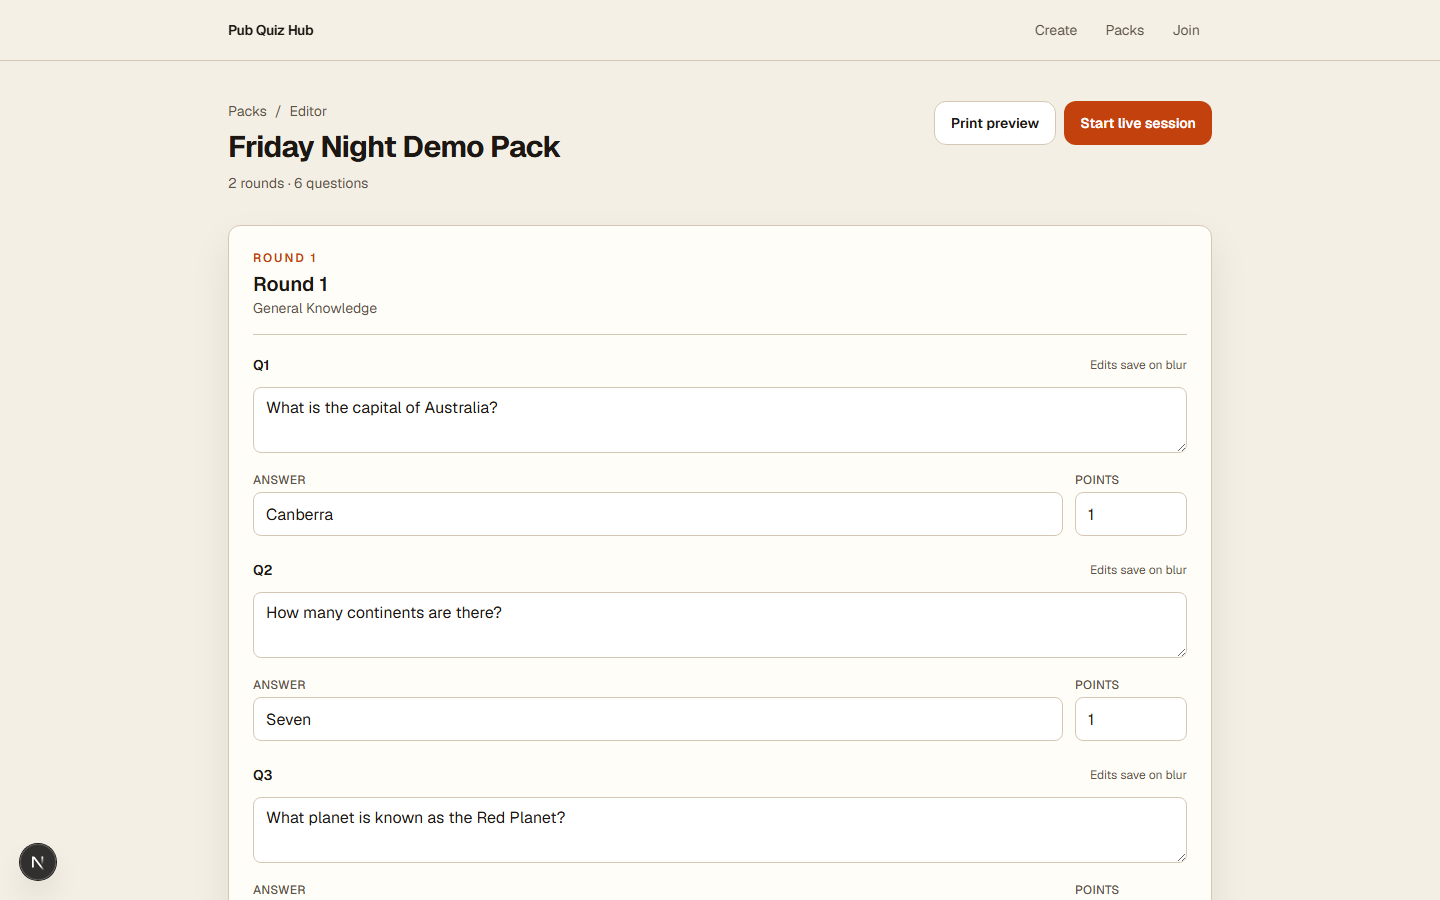
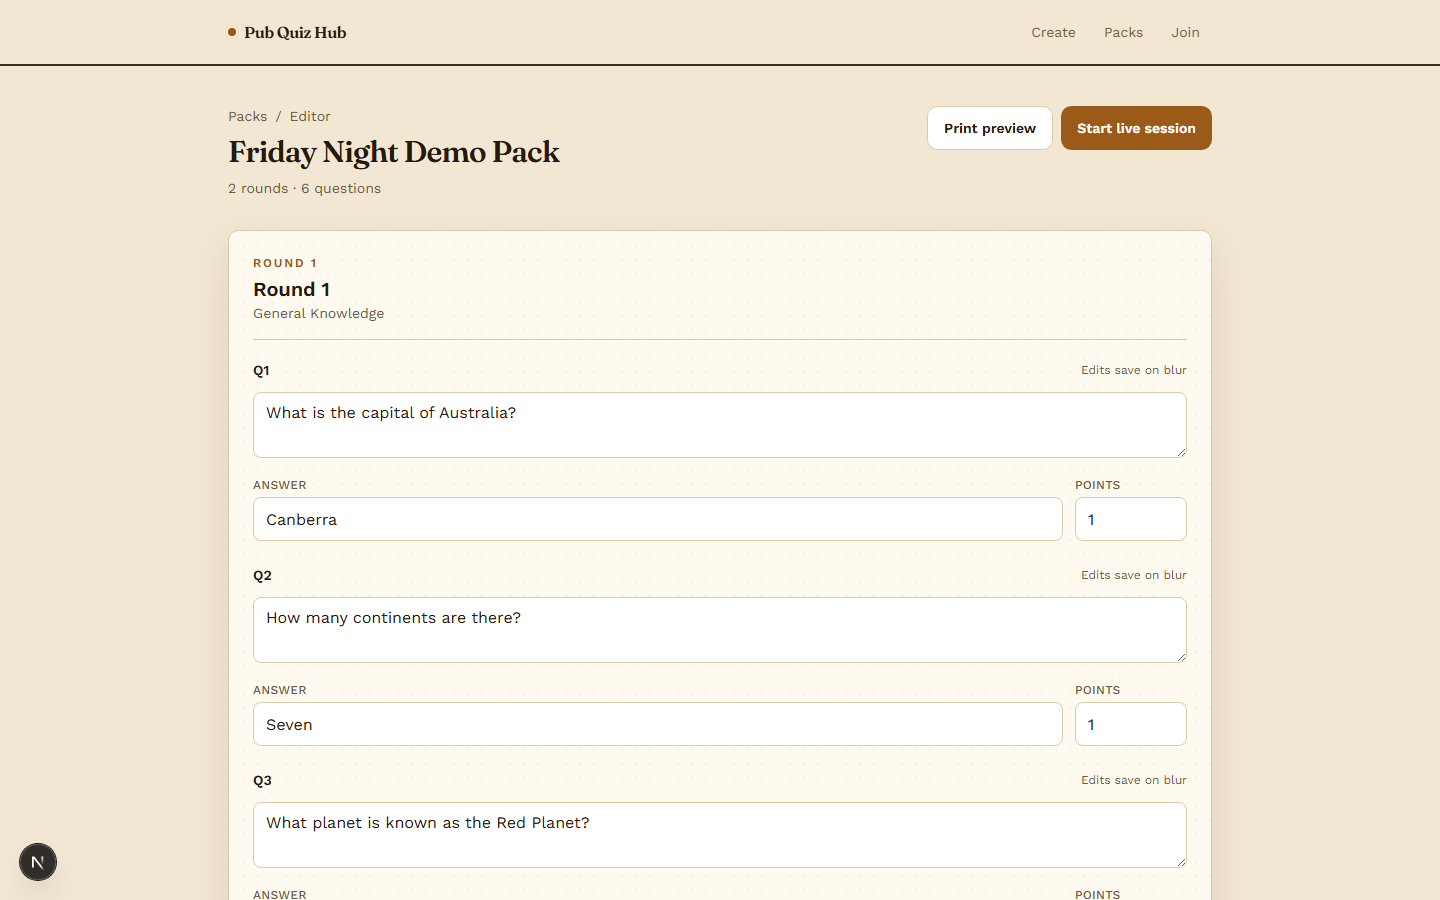
Give the app a distinctive visual identity: "Chalk & Brass"
The previous palette (warm cream + terracotta accent for light screens,
near-black + gold for the live "stage" screens) sat squarely in two of
the most common AI-generated-UI defaults. Replaced both with a design
mined from the actual subject — a pub quiz night has two real modes,
the prep desk and the live room — rather than generic SaaS warmth:

- Paper mode (editor/wizard/marketing): richer parchment background,
  deep umber ink, and a burnt-brass accent (ale/brass-fixture toned)
  instead of flat construction-orange.
- Chalkboard mode (host desk/team portal): an actual chalkboard
  green-black instead of a neutral near-black, with a warm gold-chalk
  accent.
- Type: Fraunces (a warm, ink-trap variable serif) for display
  headlines, replacing generic Geist Sans everywhere; Work Sans for
  body/UI; IBM Plex Mono for join codes and scores.
- Signature: a brass double-rule under key headings, a faint paper-grain
  texture on cards, and a matching chalk-dust texture + vignette on dark
  surfaces.

Implementation stays surgical: every existing Tailwind class
(bg-amber, text-stage-fg, bg-gold, paper-sheet, font-serif, font-mono...)
keeps its name — only the token values in globals.css and the fonts
loaded in layout.tsx changed, so the whole app (including pages I didn't
touch, like the print preview) picks up the new identity automatically.
Layered on top: font-serif on the handful of headings that read best as
display type, and a small polish pass on the header/home hero.
[…]

diff --git a/src/app/globals.css b/src/app/globals.css
@@ -1,16 +1,27 @@
 @import "tailwindcss";
 
+/*
+  "Chalk & Brass" — two linked surfaces that map to how a pub quiz actually
+  runs: the prep desk (paper, ink, brass) and the live room (chalkboard,
+  gold chalk). Same token names the rest of the app already reaches for
+  (bg-amber, text-stage-fg, bg-gold, …) — only the values and a couple of
+  textures changed here, so this file is the single place that carries the
+  whole visual identity.
+*/
 :root {
-  --background: #f4efe4;
-  --foreground: #1c1712;
-  --muted: #5c5348;
-  --line: #d4c8b4;
-  --amber: #c2410c;
-  --amber-hover: #9a3412;
-  --stage: #12100d;
-  --stage-fg: #f6f0e6;
-  --stage-muted: #c4b8a5;
-  --gold: #e8b84a;
+  --background: #f2e7d3;
+  --foreground: #26190e;
+  --muted: #6e5a42;
+  --line: #dcc9a6;
+  --amber: #9c5a18;
+  --amber-hover: #713f0e;
+  --stage: #161f1a;
+  --stage-fg: #f1e9d8;
+  --stage-muted: #9daf9f;
+  --gold: #e2aa3e;
+
+  --radius-xl: 0.65rem;
+  --radius-2xl: 0.9rem;
 }
 
 @theme inline {
@@ -24,21 +35,63 @@
   --color-stage-fg: var(--stage-fg);
   --color-stage-muted: var(--stage-muted);
   --color-gold: var(--gold);
-  --font-sans: var(--font-geist-sans);
-  --font-mono: var(--font-geist-mono);
+
+  --font-sans: var(--font-body), Arial, Helvetica, sans-serif;
+  --font-serif: var(--font-display), Georgia, serif;
+  --font-mono: var(--font-mono-plex), ui-monospace, monospace;
 }
 
 body {
   background: var(--background);
   color: var(--foreground);
-  font-family: var(--font-sans), Arial, Helvetica, sans-serif;
+  font-family: var(--font-sans);
 }
 
+/* A short brass double-rule — the one signature mark repeated wherever a
+   heading needs real weight: a thick stroke over a thin one, like the rule
+   under a menu-board header. Deliberately small and quiet everywhere else. */
+.rule-brass {
+  position: relative;
+  display: inline-block;
+  padding-bottom: 0.5rem;
+}
+.rule-brass::after {
+  content: "";
+  position: absolute;
+  left: 0;
+  bottom: 0;
+  width: 3.25rem;
+  height: 5px;
+  background: var(--amber);
+  border-bottom: 2px solid var(--foreground);
+  opacity: 0.9;
+}
+.rule-brass--dark::after {
+  background: var(--gold);
+  border-bottom-color: var(--stage-fg);
+  opacity: 0.85;
+}
+
+/* Paper card: warm white with a faint fiber grain, not a flat swatch. */
 .paper-sheet {
-  background: #fffdf8;
+  background:
+    radial-gradient(circle at 1px 1px, rgba(38, 25, 14, 0.05) 1px, transparent 0) 0 0/14px 14px,
+    #fffaf0;
   box-shadow:
-    0 1px 0 rgba(28, 23, 18, 0.06),
-    0 18px 40px rgba(28, 23, 18, 0.08);
+    0 1px 0 rgba(38, 25, 14, 0.07),
+    0 18px 40px rgba(38, 25, 14, 0.1);
+}
+
+/* Chalkboard surfaces: every existing `bg-stage` usage picks this up for
+   free (same Tailwind class, extended here) — a faint chalk-dust grain plus
+   a soft top vignette instead of a flat near-black. */
+.bg-stage {
+  background-color: var(--stage);
+  background-image:
+    radial-gradient(circle at 1px 1px, rgba(241, 233, 216, 0.05) 1px, transparent 0),
+    radial-gradient(ellipse 90% 60% at 50% -10%, rgba(226, 170, 62, 0.08), transparent 60%);
+  background-size: 16px 16px, 100% 100%;
+  background-repeat: repeat, no-repeat;
 }
 
 @media print {
@@ -51,6 +104,7 @@ body {
   }
 
   .paper-sheet {
+    background: white;
     box-shadow: none;
     width: 100%;
     max-width: none;

diff --git a/src/app/play/TeamPortal.tsx b/src/app/play/TeamPortal.tsx
@@ -136,7 +136,7 @@ export function TeamPortal() {
       <div className="flex min-h-dvh flex-col bg-stage px-5 py-8 text-stage-fg">
         <div className="mx-auto flex w-full max-w-md flex-1 flex-col justify-center">
           <p className="text-xs font-semibold uppercase tracking-[0.2em] text-gold">Team portal</p>
-          <h1 className="mt-3 text-3xl font-bold tracking-tight">Join tonight’s quiz</h1>
+          <h1 className="mt-3 font-serif text-3xl font-semibold tracking-tight">Join tonight’s quiz</h1>
           <p className="mt-2 text-stage-muted">Ask the host for the 5-character code, then pick a team name.</p>
 
           <form onSubmit={join} className="mt-8 space-y-5">
@@ -204,7 +204,7 @@ export function TeamPortal() {
         {state?.status === "QUESTION_ACTIVE" ? (
           <form onSubmit={submitAnswer} className="flex flex-1 flex-col">
             <RoundKicker state={state} />
-            <h2 className="mt-3 text-2xl font-bold leading-snug">{state.question?.text}</h2>
+            <h2 className="mt-3 font-serif text-2xl font-semibold leading-snug">{state.question?.text}</h2>
             <label className="mt-6 block flex-1">
               <span className="text-sm font-medium">Your answer</span>
               <textarea
@@ -251,7 +251,7 @@ function RoundKicker({ state }: { state: TeamSessionState }) {
 function LobbyPanel({ teamName, state }: { teamName: string; state: TeamSessionState | null }) {
   return (
     <div className="flex flex-1 flex-col">
-      <h2 className="text-3xl font-bold">You’re in, {teamName}.</h2>
+      <h2 className="font-serif text-3xl font-semibold">You’re in, {teamName}.</h2>
       <p className="mt-3 text-lg text-stage-muted">Sit tight. The host will start the first question from the desk.</p>
       <section className="mt-8 rounded-2xl bg-white/5 p-4">
         <h3 className="mb-3 font-semibold">Scoreboard</h3>
@@ -266,7 +266,7 @@ function RevealPanel({ state }: { state: TeamSessionState }) {
   return (
     <div className="flex flex-1 flex-col">
       <RoundKicker state={state} />
-      <h2 className="mt-3 text-2xl font-bold leading-snug">{state.question?.text}</h2>
+      <h2 className="mt-3 font-serif text-2xl font-semibold leading-snug">{state.question?.text}</h2>
       <div
         className={`mt-6 rounded-2xl px-4 py-5 ${
           correct ? "bg-emerald-500/15 text-emerald-100" : "bg-red-500/15 text-red-100"
@@ -297,7 +297,7 @@ function EndedPanel({ state }: { state: TeamSessionState }) {
   const place = mine ? state.scoreboard.findIndex((row) => row.teamId === mine.teamId) + 1 : null;
   return (
     <div className="flex flex-1 flex-col">
-      <h2 className="text-3xl font-bold">Quiz over</h2>
+      <h2 className="font-serif text-3xl font-semibold">Quiz over</h2>
       <p className="mt-3 text-lg text-stage-muted">
         {place && mine ? `${state.teamName} finished ${ordinal(place)} with ${mine.score} points.` : "Thanks for playing."}
       </p>

diff --git a/src/app/host/[code]/HostDashboard.tsx b/src/app/host/[code]/HostDashboard.tsx
@@ -151,7 +151,7 @@ export function HostDashboard({ code }: { code: string }) {
         <div className="mx-auto flex max-w-6xl flex-wrap items-center justify-between gap-4">
           <div>
             <p className="text-xs uppercase tracking-[0.18em] text-gold">Host desk</p>
-            <h1 className="mt-1 text-xl font-semibold">{state.packTitle}</h1>
+            <h1 className="mt-1 font-serif text-xl font-semibold">{state.packTitle}</h1>
           </div>
           <div className="flex flex-wrap items-center gap-3">
             <StatusBadge status={state.status} dark />
@@ -169,7 +169,7 @@ export function HostDashboard({ code }: { code: string }) {
         <section className="rounded-2xl bg-white/5 p-5 sm:p-6">
           {state.status === "LOBBY" ? (
             <>
-              <h2 className="text-2xl font-bold">Waiting for teams</h2>
+              <h2 className="font-serif text-2xl font-semibold">Waiting for teams</h2>
               <p className="mt-2 text-stage-muted">
                 Share the code. Start when everyone is in — late joiners can still arrive during the lobby.
               </p>
@@ -194,7 +194,7 @@ export function HostDashboard({ code }: { code: string }) {
                 Question {state.questionNumber} of {state.totalQuestionsInRound}
                 {state.question ? ` · ${state.question.points} pt` : ""}
               </p>
-              <h2 className="mt-4 text-2xl font-bold leading-snug sm:text-3xl">
+              <h2 className="mt-4 font-serif text-2xl font-semibold leading-snug sm:text-3xl">
                 {state.question?.text ?? "No question loaded"}
               </h2>
               {state.question?.answer ? (
@@ -230,7 +230,7 @@ export function HostDashboard({ code }: { code: string }) {
 
           {state.status === "ENDED" ? (
             <>
-              <h2 className="text-3xl font-bold">That’s the night</h2>
+              <h2 className="font-serif text-3xl font-semibold">That’s the night</h2>
               <p className="mt-2 text-stage-muted">Final scores are on the right. Thanks for hosting.</p>
             </>
           ) : null}

diff --git a/src/app/page.tsx b/src/app/page.tsx
@@ -26,22 +26,26 @@ export default function Home() {
   return (
     <>
       <SiteHeader />
-      <main className="mx-auto w-full max-w-5xl flex-1 px-5 py-16">
-        <p className="text-sm font-medium uppercase tracking-[0.18em] text-amber">Trivia night, wired up</p>
-        <h1 className="mt-3 max-w-xl text-4xl font-bold tracking-tight">Pub Quiz Automation Hub</h1>
-        <p className="mt-4 max-w-2xl text-lg text-muted">
+      <main className="mx-auto w-full max-w-5xl flex-1 px-5 py-16 sm:py-24">
+        <p className="rule-brass text-sm font-semibold uppercase tracking-[0.2em] text-amber">
+          Trivia night, wired up
+        </p>
+        <h1 className="mt-7 max-w-2xl font-serif text-5xl font-semibold tracking-tight sm:text-6xl">
+          Pub Quiz <em className="text-amber font-medium italic">Automation</em> Hub
+        </h1>
+        <p className="mt-5 max-w-2xl text-lg text-muted">
           Generate a complete pub quiz pack with AI, print presenter scripts and answer sheets,
           and run the night live with teams answering from their phones.
         </p>
 
-        <div className="mt-12 grid gap-4 sm:grid-cols-3">
+        <div className="mt-14 grid gap-4 sm:grid-cols-3">
           {cards.map((card) => (
             <Link
               key={card.href}
               href={card.href}
               className="paper-sheet block rounded-xl border border-line p-5 transition-transform hover:-translate-y-0.5"
             >
-              <h2 className="font-semibold">{card.title}</h2>
+              <h2 className="font-serif text-lg font-semibold">{card.title}</h2>
               <p className="mt-2 text-sm text-muted">{card.body}</p>
               <span className="mt-5 inline-block text-sm font-semibold text-amber">{card.cta} →</span>
             </Link>

diff --git a/src/components/SiteHeader.tsx b/src/components/SiteHeader.tsx
@@ -8,9 +8,10 @@ const links = [
 
 export function SiteHeader() {
   return (
-    <header className="border-b border-line bg-background/90 backdrop-blur">
-      <div className="mx-auto flex w-full max-w-5xl items-center justify-between px-5 py-3">
-        <Link href="/" className="text-sm font-semibold tracking-tight">
+    <header className="border-b-2 border-foreground/90 bg-background/90 backdrop-blur">
+      <div className="mx-auto flex w-full max-w-5xl items-center justify-between px-5 py-3.5">
+        <Link href="/" className="flex items-center gap-2 font-serif text-base font-semibold tracking-tight">
+          <span aria-hidden className="h-2 w-2 rounded-full bg-amber" />
           Pub Quiz Hub
         </Link>
         <nav className="flex items-center gap-1">
@@ -18,7 +19,7 @@ export function SiteHeader() {
             <Link
               key={link.href}
               href={link.href}
-              className="rounded-md px-3 py-2 text-sm text-muted hover:text-foreground"
+              className="rounded-md px-3 py-2 text-sm text-muted transition-colors hover:text-foreground"
             >
               {link.label}
             </Link>

diff --git a/src/app/layout.tsx b/src/app/layout.tsx
@@ -1,15 +1,24 @@
 import type { Metadata } from "next";
-import { Geist, Geist_Mono } from "next/font/google";
+import { Fraunces, IBM_Plex_Mono, Work_Sans } from "next/font/google";
 import "./globals.css";
 
-const geistSans = Geist({
-  variable: "--font-geist-sans",
+const display = Fraunces({
+  variable: "--font-display",
   subsets: ["latin"],
+  axes: ["opsz", "SOFT"],
+  style: ["normal", "italic"],
 });
 
-const geistMono = Geist_Mono({
-  variable: "--font-geist-mono",
+const body = Work_Sans({
+  variable: "--font-body",
   subsets: ["latin"],
+  weight: ["400", "500", "600", "700"],
+});
+
+const mono = IBM_Plex_Mono({
+  variable: "--font-mono-plex",
+  subsets: ["latin"],
+  weight: ["500", "600"],
 });
 
 export const metadata: Metadata = {
@@ -21,7 +30,7 @@ export default function RootLayout({ children }: LayoutProps<"/">) {
   return (
     <html
       lang="en"
-      className={`${geistSans.variable} ${geistMono.variable} h-full antialiased`}
+      className={`${display.variable} ${body.variable} ${mono.variable} h-full antialiased`}
     >
       <body className="min-h-full flex flex-col">{children}</body>
     </html>

diff --git a/src/app/packs/page.tsx b/src/app/packs/page.tsx
@@ -17,7 +17,7 @@ export default async function PacksPage() {
       <main className="mx-auto w-full max-w-5xl flex-1 px-5 py-10">
         <div className="flex flex-wrap items-end justify-between gap-4">
           <div>
-            <h1 className="text-3xl font-bold tracking-tight">Quiz packs</h1>
+            <h1 className="font-serif text-3xl font-semibold tracking-tight">Quiz packs</h1>
             <p className="mt-2 text-muted">Edit questions, preview print sheets, then start a live session.</p>
           </div>
           <Link
@@ -46,7 +46,7 @@ export default async function PacksPage() {
                     href={`/packs/${pack.id}`}
                     className="paper-sheet block rounded-xl border border-line p-5 transition-transform hover:-translate-y-0.5"
                   >
-                    <h2 className="text-lg font-semibold">{pack.title}</h2>
+                    <h2 className="font-serif text-lg font-semibold">{pack.title}</h2>
                     <p className="mt-2 text-sm text-muted">
                       {pack.rounds.length} rounds · {questionCount} questions
                     </p>

diff --git a/src/app/create/page.tsx b/src/app/create/page.tsx
@@ -38,7 +38,7 @@ export default function CreatePage() {
     <>
       <SiteHeader />
       <main className="mx-auto w-full max-w-2xl flex-1 px-5 py-10">
-        <h1 className="text-3xl font-bold tracking-tight">Generate a quiz pack</h1>
+        <h1 className="font-serif text-3xl font-semibold tracking-tight">Generate a quiz pack</h1>
         <p className="mt-2 text-muted">
           Tell the wizard what kind of night you are running. It will draft rounds, questions,
           answers, and points you can edit next.

diff --git a/src/app/packs/[id]/PackEditor.tsx b/src/app/packs/[id]/PackEditor.tsx
@@ -88,7 +88,7 @@ export function PackEditor({ pack }: { pack: Pack }) {
             <span className="px-2">/</span>
             Editor
           </p>
-          <h1 className="mt-2 text-3xl font-bold tracking-tight">{pack.title}</h1>
+          <h1 className="mt-2 font-serif text-3xl font-semibold tracking-tight">{pack.title}</h1>
           <p className="mt-2 text-sm text-muted">
             {pack.rounds.length} rounds · {questionCount} questions
           </p>
